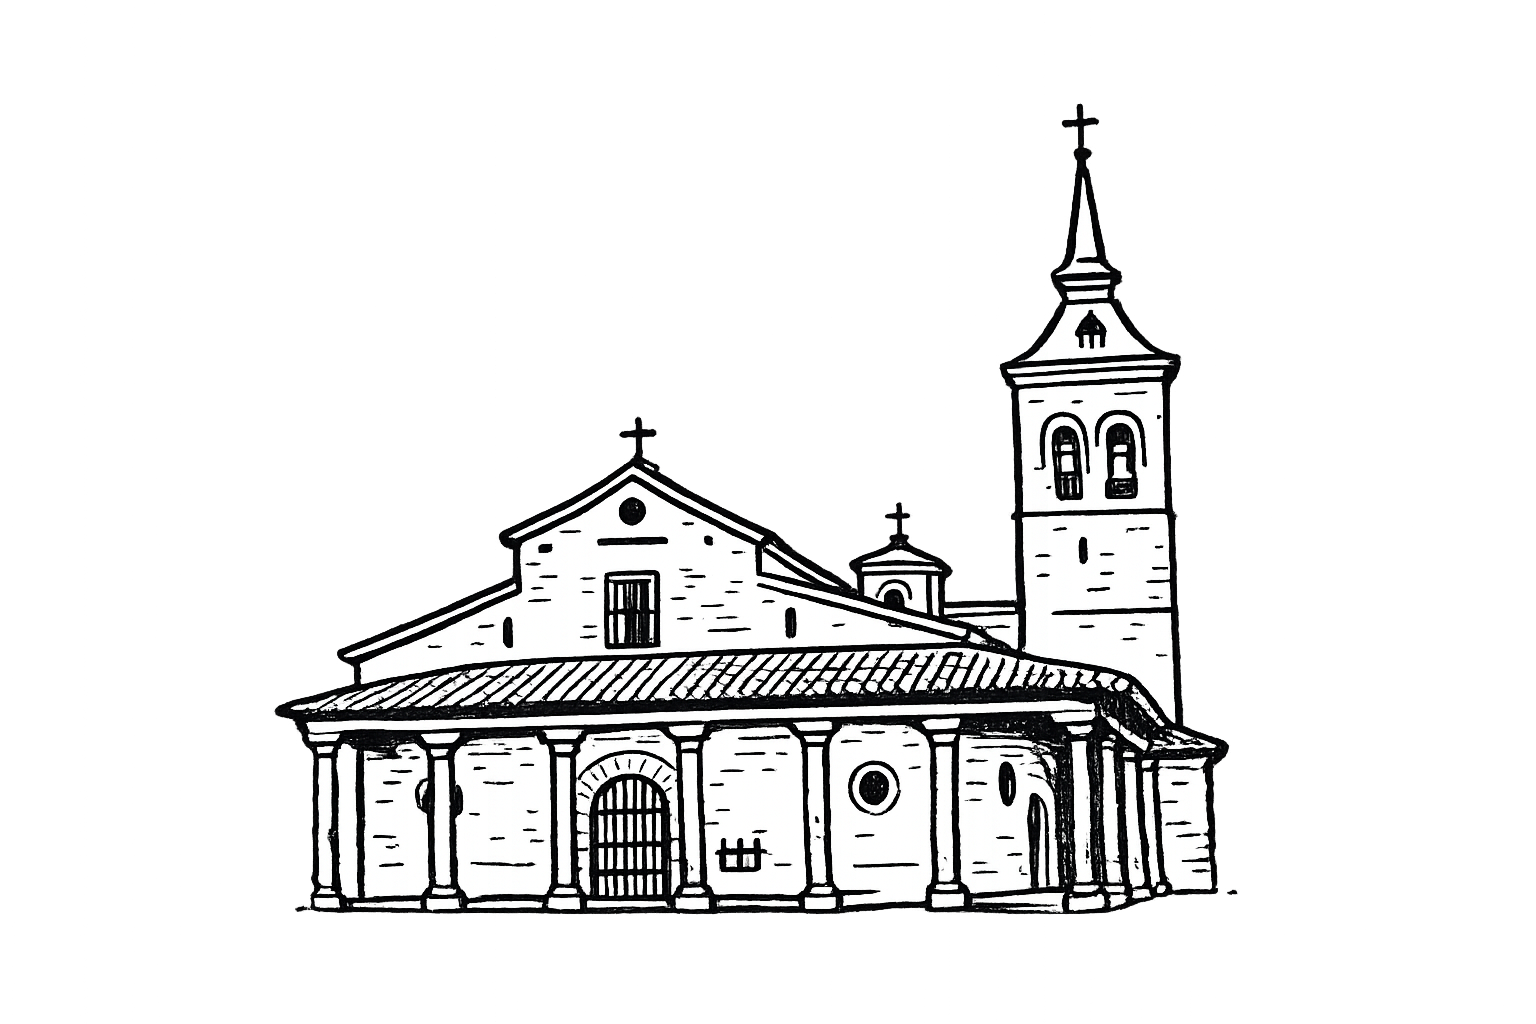
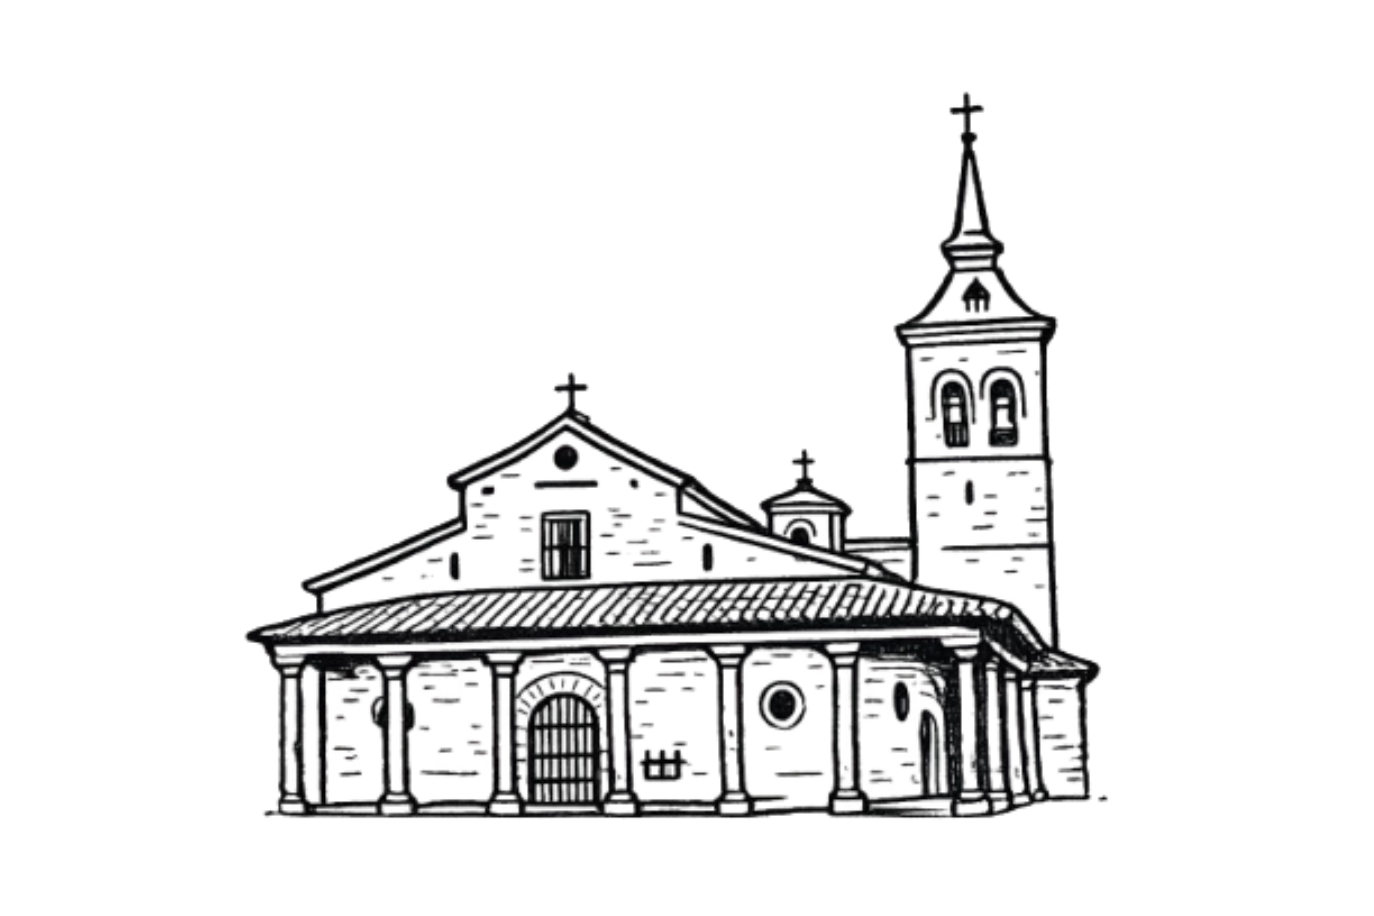
Use transparent church illustration, restore flat layout on El Lugar

Changed region(s): [[0.1834, 0.1528, 0.7948, 0.917]]

diff --git a/index.html b/index.html
@@ -180,10 +180,11 @@
 
     /* ── EL LUGAR ─────────────────────────── */
     #page-lugar { background: var(--ivory); }
-    .lugar-hero { display: grid; grid-template-columns: 1fr 1fr; gap: 3.5rem; align-items: start; margin-bottom: 0; }
-    .lugar-illustration { position: sticky; top: 1.5rem; display: flex; align-items: center; justify-content: center; }
-    .lugar-illustration img { width: 100%; max-width: 480px; mix-blend-mode: screen; opacity: .88; display: block; }
-    @media(max-width:700px){ .lugar-hero { grid-template-columns: 1fr; } .lugar-illustration { display: none; } }
+    #page-lugar { position: relative; }
+    .lugar-illustration { position: absolute; top: 0; right: 0; width: 48%; max-width: 500px; pointer-events: none; z-index: 0; }
+    .lugar-illustration img { width: 100%; opacity: .55; display: block; }
+    #page-lugar .section-wrap { position: relative; z-index: 1; }
+    @media(max-width:700px){ .lugar-illustration { width: 70%; opacity: .25; } }
     .events-layout { display: grid; grid-template-columns: 1fr 2px 1fr; gap: 0 2.5rem; margin-top: 3rem; align-items: start; }
     .ev-divider { background: linear-gradient(to bottom, transparent, var(--sage), transparent); align-self: stretch; min-height: 200px; }
     .event-card { padding: 2rem 0; }
@@ -351,32 +352,28 @@
 <!-- PAGE 2 · EL LUGAR                          -->
 <!-- ══════════════════════════════════════════ -->
 <div id="page-lugar" class="page">
+  <div class="lugar-illustration">
+    <img src="iglesia.png" alt="Concatedral de Santa María de Guadalajara">
+  </div>
   <div class="section-wrap">
-    <div class="lugar-hero">
-      <div>
-        <span class="sec-label" data-t="lugar_label">El Gran Día</span>
-        <span class="sec-heading-serif" data-t="lugar_heading_serif">The Day's</span>
-        <span class="sec-heading-script" data-t="lugar_heading_script">Events</span>
-        <div class="sec-rule left"></div>
-        <div class="events-layout">
-          <div class="event-card reveal">
-            <div class="ev-time">18:00</div>
-            <div class="ev-title" data-t="ev1_title">Ceremonia Religiosa</div>
-            <div class="ev-venue">Concatedral de Santa María de Guadalajara</div>
-          </div>
-          <div class="ev-divider"></div>
-          <div class="event-card reveal">
-            <div class="ev-time">19:30</div>
-            <div class="ev-title" data-t="ev2_title">Cóctel &amp; Cena</div>
-            <div class="ev-venue">Monasterio de San Bartolomé de Lupiana</div>
-          </div>
-          <div class="ev-note reveal" data-t="ev_note">
-            📍 Como ese día es festivo en Guadalajara, habrá más movimiento de lo habitual. ¡Ven con tiempo para aparcar con tranquilidad!
-          </div>
-        </div>
+    <span class="sec-label" data-t="lugar_label">El Gran Día</span>
+    <span class="sec-heading-serif" data-t="lugar_heading_serif">The Day's</span>
+    <span class="sec-heading-script" data-t="lugar_heading_script">Events</span>
+    <div class="sec-rule left"></div>
+    <div class="events-layout">
+      <div class="event-card reveal">
+        <div class="ev-time">18:00</div>
+        <div class="ev-title" data-t="ev1_title">Ceremonia Religiosa</div>
+        <div class="ev-venue">Concatedral de Santa María de Guadalajara</div>
       </div>
-      <div class="lugar-illustration reveal">
-        <img src="iglesia.png" alt="Concatedral de Santa María de Guadalajara">
+      <div class="ev-divider"></div>
+      <div class="event-card reveal">
+        <div class="ev-time">19:30</div>
+        <div class="ev-title" data-t="ev2_title">Cóctel &amp; Cena</div>
+        <div class="ev-venue">Monasterio de San Bartolomé de Lupiana</div>
+      </div>
+      <div class="ev-note reveal" data-t="ev_note">
+        📍 Como ese día es festivo en Guadalajara, habrá más movimiento de lo habitual. ¡Ven con tiempo para aparcar con tranquilidad!
       </div>
     </div>
   </div>

diff --git a/wedding.html b/wedding.html
@@ -180,10 +180,11 @@
 
     /* ── EL LUGAR ─────────────────────────── */
     #page-lugar { background: var(--ivory); }
-    .lugar-hero { display: grid; grid-template-columns: 1fr 1fr; gap: 3.5rem; align-items: start; margin-bottom: 0; }
-    .lugar-illustration { position: sticky; top: 1.5rem; display: flex; align-items: center; justify-content: center; }
-    .lugar-illustration img { width: 100%; max-width: 480px; mix-blend-mode: screen; opacity: .88; display: block; }
-    @media(max-width:700px){ .lugar-hero { grid-template-columns: 1fr; } .lugar-illustration { display: none; } }
+    #page-lugar { position: relative; }
+    .lugar-illustration { position: absolute; top: 0; right: 0; width: 48%; max-width: 500px; pointer-events: none; z-index: 0; }
+    .lugar-illustration img { width: 100%; opacity: .55; display: block; }
+    #page-lugar .section-wrap { position: relative; z-index: 1; }
+    @media(max-width:700px){ .lugar-illustration { width: 70%; opacity: .25; } }
     .events-layout { display: grid; grid-template-columns: 1fr 2px 1fr; gap: 0 2.5rem; margin-top: 3rem; align-items: start; }
     .ev-divider { background: linear-gradient(to bottom, transparent, var(--sage), transparent); align-self: stretch; min-height: 200px; }
     .event-card { padding: 2rem 0; }
@@ -351,32 +352,28 @@
 <!-- PAGE 2 · EL LUGAR                          -->
 <!-- ══════════════════════════════════════════ -->
 <div id="page-lugar" class="page">
+  <div class="lugar-illustration">
+    <img src="iglesia.png" alt="Concatedral de Santa María de Guadalajara">
+  </div>
   <div class="section-wrap">
-    <div class="lugar-hero">
-      <div>
-        <span class="sec-label" data-t="lugar_label">El Gran Día</span>
-        <span class="sec-heading-serif" data-t="lugar_heading_serif">The Day's</span>
-        <span class="sec-heading-script" data-t="lugar_heading_script">Events</span>
-        <div class="sec-rule left"></div>
-        <div class="events-layout">
-          <div class="event-card reveal">
-            <div class="ev-time">18:00</div>
-            <div class="ev-title" data-t="ev1_title">Ceremonia Religiosa</div>
-            <div class="ev-venue">Concatedral de Santa María de Guadalajara</div>
-          </div>
-          <div class="ev-divider"></div>
-          <div class="event-card reveal">
-            <div class="ev-time">19:30</div>
-            <div class="ev-title" data-t="ev2_title">Cóctel &amp; Cena</div>
-            <div class="ev-venue">Monasterio de San Bartolomé de Lupiana</div>
-          </div>
-          <div class="ev-note reveal" data-t="ev_note">
-            📍 Como ese día es festivo en Guadalajara, habrá más movimiento de lo habitual. ¡Ven con tiempo para aparcar con tranquilidad!
-          </div>
-        </div>
+    <span class="sec-label" data-t="lugar_label">El Gran Día</span>
+    <span class="sec-heading-serif" data-t="lugar_heading_serif">The Day's</span>
+    <span class="sec-heading-script" data-t="lugar_heading_script">Events</span>
+    <div class="sec-rule left"></div>
+    <div class="events-layout">
+      <div class="event-card reveal">
+        <div class="ev-time">18:00</div>
+        <div class="ev-title" data-t="ev1_title">Ceremonia Religiosa</div>
+        <div class="ev-venue">Concatedral de Santa María de Guadalajara</div>
       </div>
-      <div class="lugar-illustration reveal">
-        <img src="iglesia.png" alt="Concatedral de Santa María de Guadalajara">
+      <div class="ev-divider"></div>
+      <div class="event-card reveal">
+        <div class="ev-time">19:30</div>
+        <div class="ev-title" data-t="ev2_title">Cóctel &amp; Cena</div>
+        <div class="ev-venue">Monasterio de San Bartolomé de Lupiana</div>
+      </div>
+      <div class="ev-note reveal" data-t="ev_note">
+        📍 Como ese día es festivo en Guadalajara, habrá más movimiento de lo habitual. ¡Ven con tiempo para aparcar con tranquilidad!
       </div>
     </div>
   </div>
